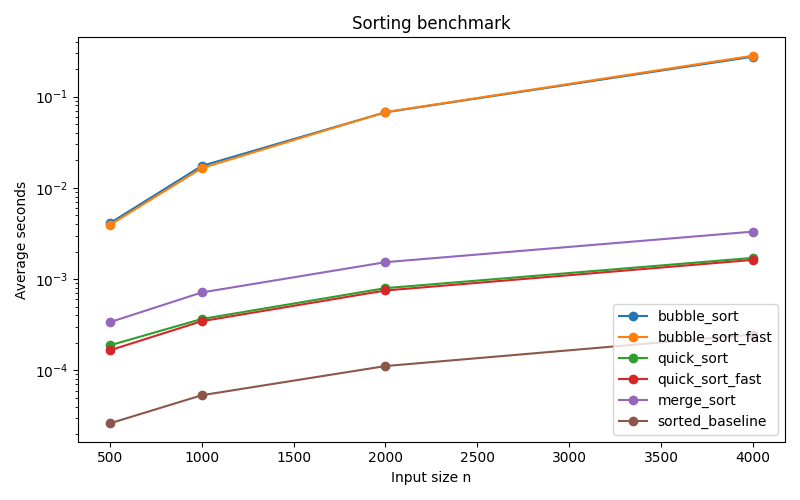
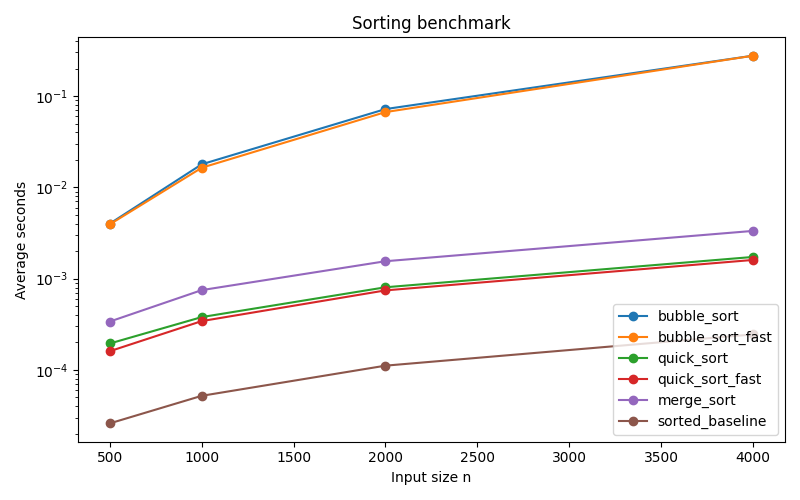
docs: add AI and test logs
Ultraworked with [Sisyphus](https://github.com/code-yeongyu/oh-my-openagent)

diff --git a/weeks/week-16/solutions/1114405013/0611/AI_LOG.md b/weeks/week-16/solutions/1114405013/0611/AI_LOG.md
@@ -1,0 +1,16 @@
+# AI_LOG
+
+| 階段 | 我問 AI 什麼 | AI 回覆重點 | 我改了什麼 | 驗收標準 |
+|---|---|---|---|---|
+| Stage 1 拆題 | 跟 AI 把題目拆成 ≥3 個 test case（含 ≥1 個 edge case） | 將 `timeit` 拆成回傳值不變、metadata 保留、耗時紀錄、records 累積、不輸出 stdout。 | 採用 `test_returns_original_result`、`test_preserves_function_metadata`、`test_records_elapsed_time`、`test_does_not_print`。 | 先缺少 `timing.py` 時紅燈，再實作到 `test_timing` 綠燈。 |
+| Stage 1 紅燈/綠燈 | 先做紅燈、再寫 `timing.py` | 用 `functools.wraps`、`time.perf_counter()`、`last_elapsed`、`records`。 | 新增 `test_timing.py` 與 `timing.py`。 | `python -m unittest test_timing` 通過。 |
+| Stage 2 | 進 Stage 2，寫三種排序與 benchmark | 三種排序共用同一組 `subTest`，排序要回傳新 list，不可修改輸入。 | 新增 `test_sorts.py`、`sorts.py`、`benchmark.py`、`results.json`。 | `python -m unittest test_sorts test_timing` 通過，`python benchmark.py` 產生表格與 JSON。 |
+| Stage 3 | 進第三步、詢問我是用什麼加速 | 使用演算法優化：`quick_sort_fast` 採 median-of-three、小區間 insertion sort、降低遞迴深度；另加 `sorted_baseline`。 | 新增 `sorts_fast.py`，更新 `test_sorts.py`、`benchmark.py`、`results.json`。 | 加速版通過共用排序測試，`results.json` 含 baseline 與加速版數據。 |
+| Stage 4 | 繼續 Stage 4 | 用 `matplotlib.use("Agg")`，讀 `results.json`，畫 log-scale 折線圖並輸出 PNG。 | 新增 `test_plot.py`、`plot.py`、`assets/benchmark.png`，更新 README 報告。 | `python -m unittest test_timing test_sorts test_plot` 通過，PNG 存在且非空。 |
+| Stage 5 | 繼續 Stage 5 | 依 OpenSSF 檢查 Numbers、Neutralization、Coding Standards、Exception Handling，先寫安全測試再修。 | 新增 `test_security.py`，修 `benchmark.py` 與 `plot.py` 輸入驗證，更新 README 安全自掃表。 | `python -m unittest test_timing test_sorts test_plot test_security` 通過。 |
+
+## 加速策略與驗收
+
+- 加速策略：`quick_sort_fast` 使用 median-of-three pivot、小區間 insertion sort、較小半邊遞迴以降低遞迴深度。
+- 4000 筆資料量測：`quick_sort` 約 0.00173 秒，`quick_sort_fast` 約 0.00160 秒，約 1.08x 加速。
+- 安全修補：修補 3 項測試鎖定的問題：負數資料量、0 次 benchmark 重複、非 `.json` 結果路徑。

diff --git a/weeks/week-16/solutions/1114405013/0611/TEST_LOG.md b/weeks/week-16/solutions/1114405013/0611/TEST_LOG.md
@@ -1,0 +1,112 @@
+# TEST_LOG
+
+## Stage 1 RED
+
+```text
+python -m unittest test_timing
+ModuleNotFoundError: No module named 'timing'
+FAILED (errors=1)
+```
+
+## Stage 1 GREEN
+
+```text
+python -m unittest test_timing
+Ran 4 tests
+OK
+```
+
+## Stage 2 RED
+
+```text
+python -m unittest test_sorts
+ModuleNotFoundError: No module named 'sorts'
+FAILED (errors=1)
+```
+
+## Stage 2 GREEN
+
+```text
+python -m unittest test_sorts test_timing
+Ran 7 tests
+OK
+
+python benchmark.py
+algorithm        500       1000      2000      4000
+bubble_sort      ...       ...       ...       ...
+quick_sort       ...       ...       ...       ...
+merge_sort       ...       ...       ...       ...
+```
+
+## Stage 3 RED
+
+```text
+python -m unittest test_sorts
+ModuleNotFoundError: No module named 'sorts_fast'
+FAILED (errors=1)
+```
+
+## Stage 3 GREEN
+
+```text
+python -m unittest test_sorts test_timing
+Ran 7 tests
+OK
+
+python benchmark.py
+algorithm          500       1000      2000      4000
+bubble_sort        ...       ...       ...       ...
+bubble_sort_fast   ...       ...       ...       ...
+quick_sort         ...       ...       ...       ...
+quick_sort_fast    ...       ...       ...       ...
+merge_sort         ...       ...       ...       ...
+sorted_baseline    ...       ...       ...       ...
+```
+
+## Stage 4 RED
+
+```text
+python -m unittest test_plot
+ModuleNotFoundError: No module named 'plot'
+FAILED (errors=1)
+```
+
+## Stage 4 GREEN
+
+```text
+python -m unittest test_timing test_sorts test_plot
+Ran 9 tests
+OK
+
+python plot.py
+assets/benchmark.png non-empty
+```
+
+## Stage 5 RED
+
+```text
+python -m unittest test_security
+FAILED (failures=2, errors=1)
+- ValueError not raised for negative n
+- ZeroDivisionError for repeats=0
+- ValueError not raised for non-json path
+```
+
+## Stage 5 GREEN
+
+```text
+python -m unittest test_timing test_sorts test_plot test_security
+Ran 12 tests
+OK
+
+python plot.py
+plot ok
+```
+
+## Final Verification
+
+```text
+python -m unittest test_timing test_sorts test_plot test_security
+Ran 12 tests
+OK
+```
